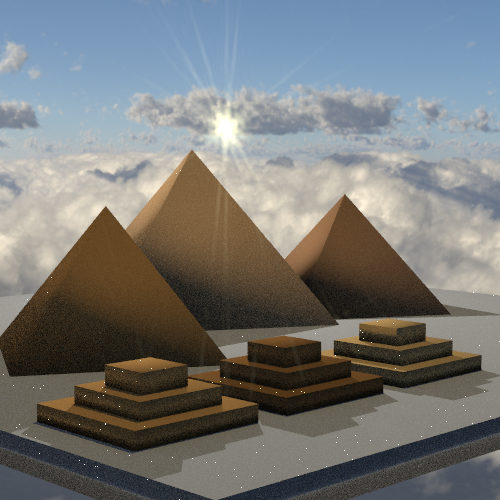
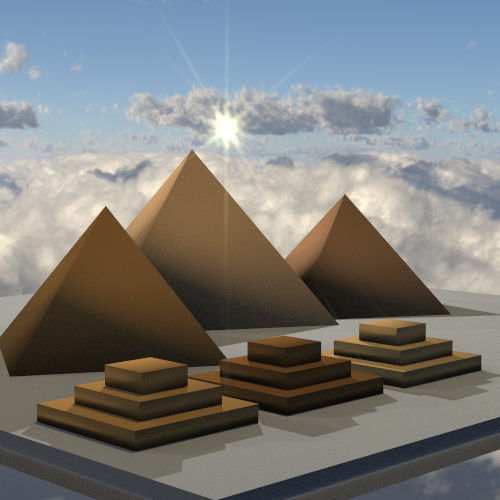
final render images

diff --git a/index.html b/index.html
@@ -388,7 +388,8 @@
 
     <h3>Renders</h3>
 
-    <p>Some Content</p>
+    <p>The three images shown below are our final renders that contain both a <b>Starburst Effect</b> and a series of <b>Ghost Reflections.</b> On the left, we present a GIF depicting the render process of our Giza Pyramids scene. The render in the middle is the Giza Pyramids rendered at a <b>different viewpoint.</b> Notice how the lens flare has effectively shifted and how the ghost reflections have changed. The render on the right is a render with a custom ghost reflection to enhance the effect of the chromatic
+    abberration. </p>
 
     <div class="submodule">
         <img src="media/pyramid_pentsmll_ghost.gif" width="31.5%" style="float: left; padding-left: 10px; padding-right: 10px;"/>
@@ -398,7 +399,8 @@
 
     <h3>Final Animation</h3>
 
-    <p>Some Content</p>
+    <p>We present our final animation of the Giza Pyramids scene. We've been able to modify the backend of PathTracer to save and render 500 frames (40 FPS) of the camera rotating around the pyramids. Although the Starburst remains largely static (notice how it becomes brighter near the end), the Ghost Reflections are changing in a very interesting way. Not only is the angle adjusting such that it remains on the axis towards the center, but the reflections itself are changing size and opacity as the camera's viewpoint rotates. 
+    </p>
 
     <video width="400" controls style="margin: 0 auto; width: 400px;">
         <source src="media/animation.mp4" type="video/mp4">
